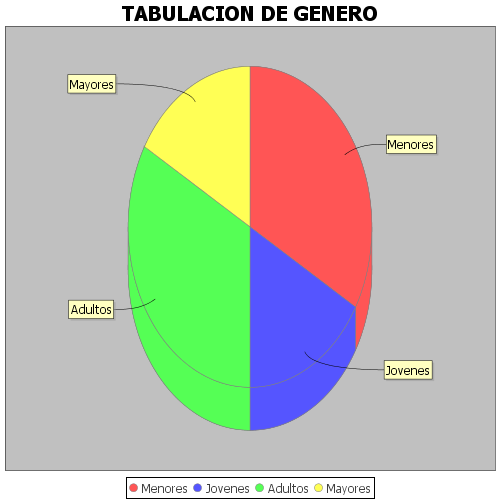
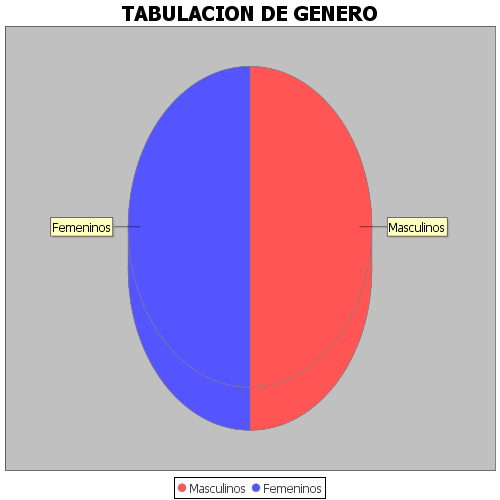
Actualizacion
* Cambio en el reporte

diff --git a/src/wilsonR/vista/vista.java b/src/wilsonR/vista/vista.java
@@ -84,12 +84,12 @@ public class vista extends javax.swing.JFrame {
         datos.setValue("Mayores", d);
         datos.setValue("Menores", a);
         datos.setValue("Jovenes", b);
-        
+
         ch = ChartFactory.createPieChart3D("TABULACION DE EDAD", datos, true, true, false);
         cp1 = new ChartPanel(ch);
         cp1 = new ChartPanel(ch);
         cp1.setBounds(600, 410, 550, 400);
-        
+
         this.add(cp1);
         this.repaint();
 
@@ -445,7 +445,7 @@ public class vista extends javax.swing.JFrame {
             imagen.setAlignment(Element.ALIGN_CENTER);
             document.add(imagen);
 
-            Paragraph titulo = new Paragraph("REPORTE GENERO",
+            Paragraph titulo = new Paragraph("REPORTE FEMENINO",
                     FontFactory.getFont("arial", // fuente
                             22, // tamaño
                             Font.NORMAL, // estilo
@@ -500,7 +500,7 @@ public class vista extends javax.swing.JFrame {
 
             document.add(Chunk.NEXTPAGE);
 
-            Paragraph t1 = new Paragraph("LISTA DE PERSONAS",
+            Paragraph t1 = new Paragraph("LISTA DE MUJERES",
                     FontFactory.getFont("arial", // fuente
                             22, // tamaño
                             Font.NORMAL, // estilo
@@ -531,17 +531,18 @@ public class vista extends javax.swing.JFrame {
             int c = 0;
             int d = 0;
             for (Persona p : lsRiego) {
-
-                table.addCell(p.getId() + "");
-                table.addCell(p.getNom() + "");
-                table.addCell(p.getSexo() + "");
+                if (p.getSexo().equals("Femenino")) {
+                    table.addCell(p.getId() + "");
+                    table.addCell(p.getNom() + "");
+                    table.addCell(p.getSexo() + "");
+                    table.addCell(p.getEdad() + "");
+                }
                 if (p.getSexo().equals("Masculino")) {
                     masculinos++;
                 } else {
                     femeninos++;
                 }
 
-                table.addCell(p.getEdad() + "");
                 int edad = Integer.valueOf(p.getEdad());
                 if (edad < 18) {
                     a++;
@@ -572,21 +573,21 @@ public class vista extends javax.swing.JFrame {
 
             document.add(Chunk.NEWLINE);
 
-            datos = new DefaultPieDataset();
-            datos.setValue("Menores", a);
-            datos.setValue("Jovenes", b);
-            datos.setValue("Adultos", c);
-            datos.setValue("Mayores", d);
-            ch = ChartFactory.createPieChart3D("TABULACION DE EDAD", datos, true, true, false);
-            cp = new ChartPanel(ch);
-            out = new FileOutputStream("tabulacion.png");
-            ChartUtilities.writeChartAsPNG(out, ch, 500, 500);
-
-            imagen = Image.getInstance("tabulacion.png");
-            imagen.setAlignment(Element.ALIGN_CENTER);
-            document.add(imagen);
-
-            document.add(Chunk.NEWLINE);
+//            datos = new DefaultPieDataset();
+//            datos.setValue("Menores", a);
+//            datos.setValue("Jovenes", b);
+//            datos.setValue("Adultos", c);
+//            datos.setValue("Mayores", d);
+//            ch = ChartFactory.createPieChart3D("TABULACION DE EDAD", datos, true, true, false);
+//            cp = new ChartPanel(ch);
+//            out = new FileOutputStream("tabulacion.png");
+//            ChartUtilities.writeChartAsPNG(out, ch, 500, 500);
+//
+//            imagen = Image.getInstance("tabulacion.png");
+//            imagen.setAlignment(Element.ALIGN_CENTER);
+//            document.add(imagen);
+//
+//            document.add(Chunk.NEWLINE);
 
             document.close();
             Desktop des = Desktop.getDesktop();
